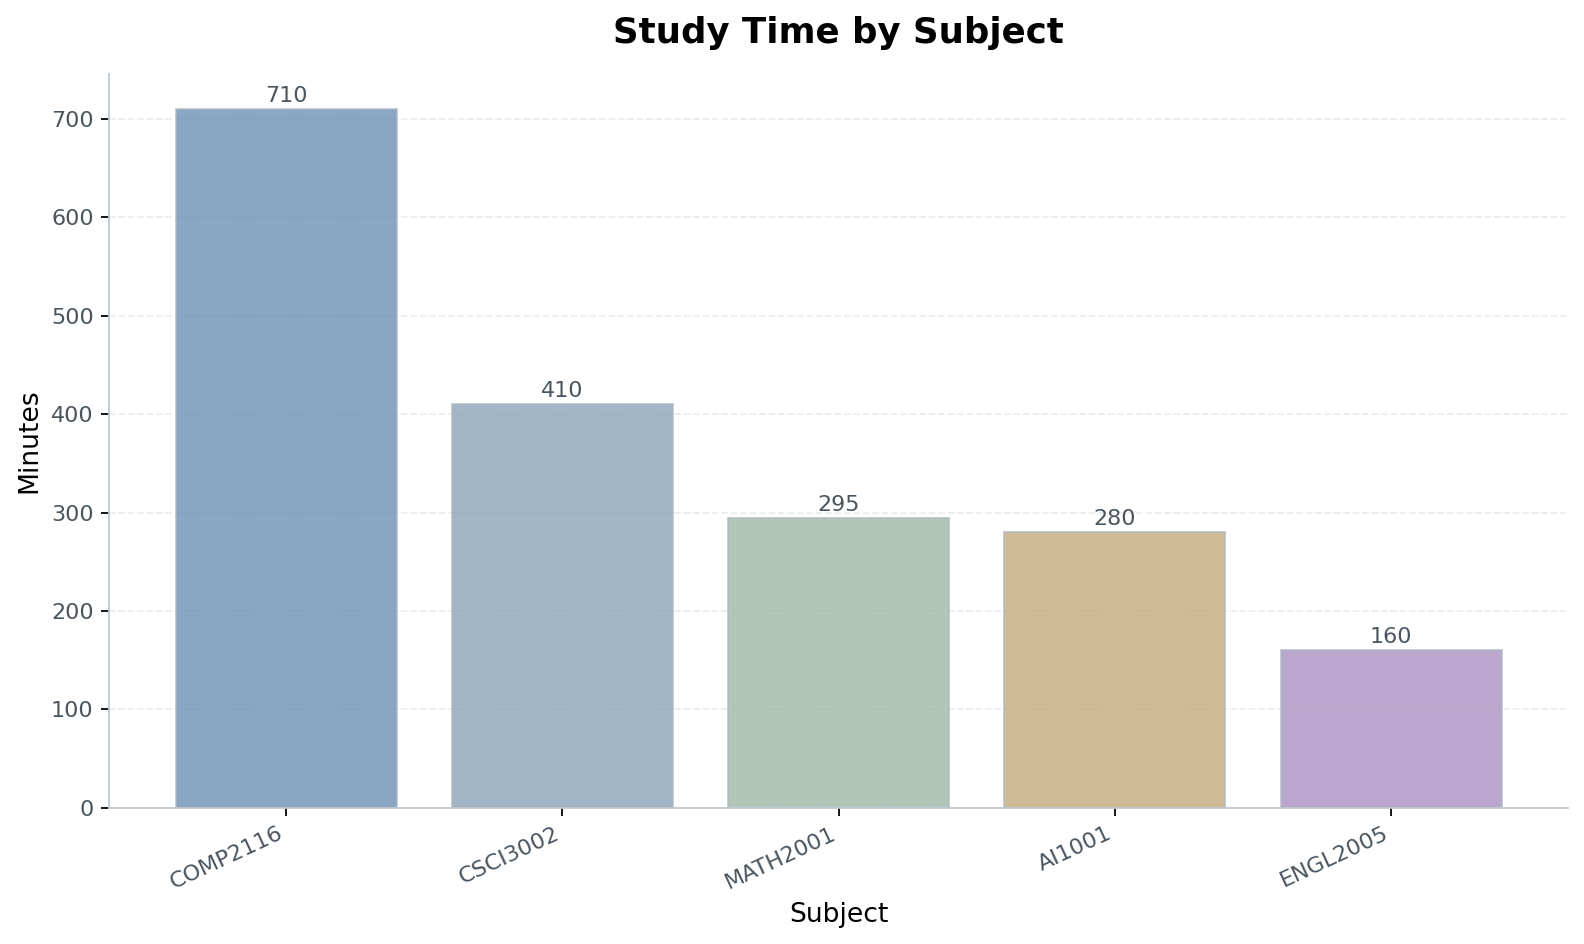
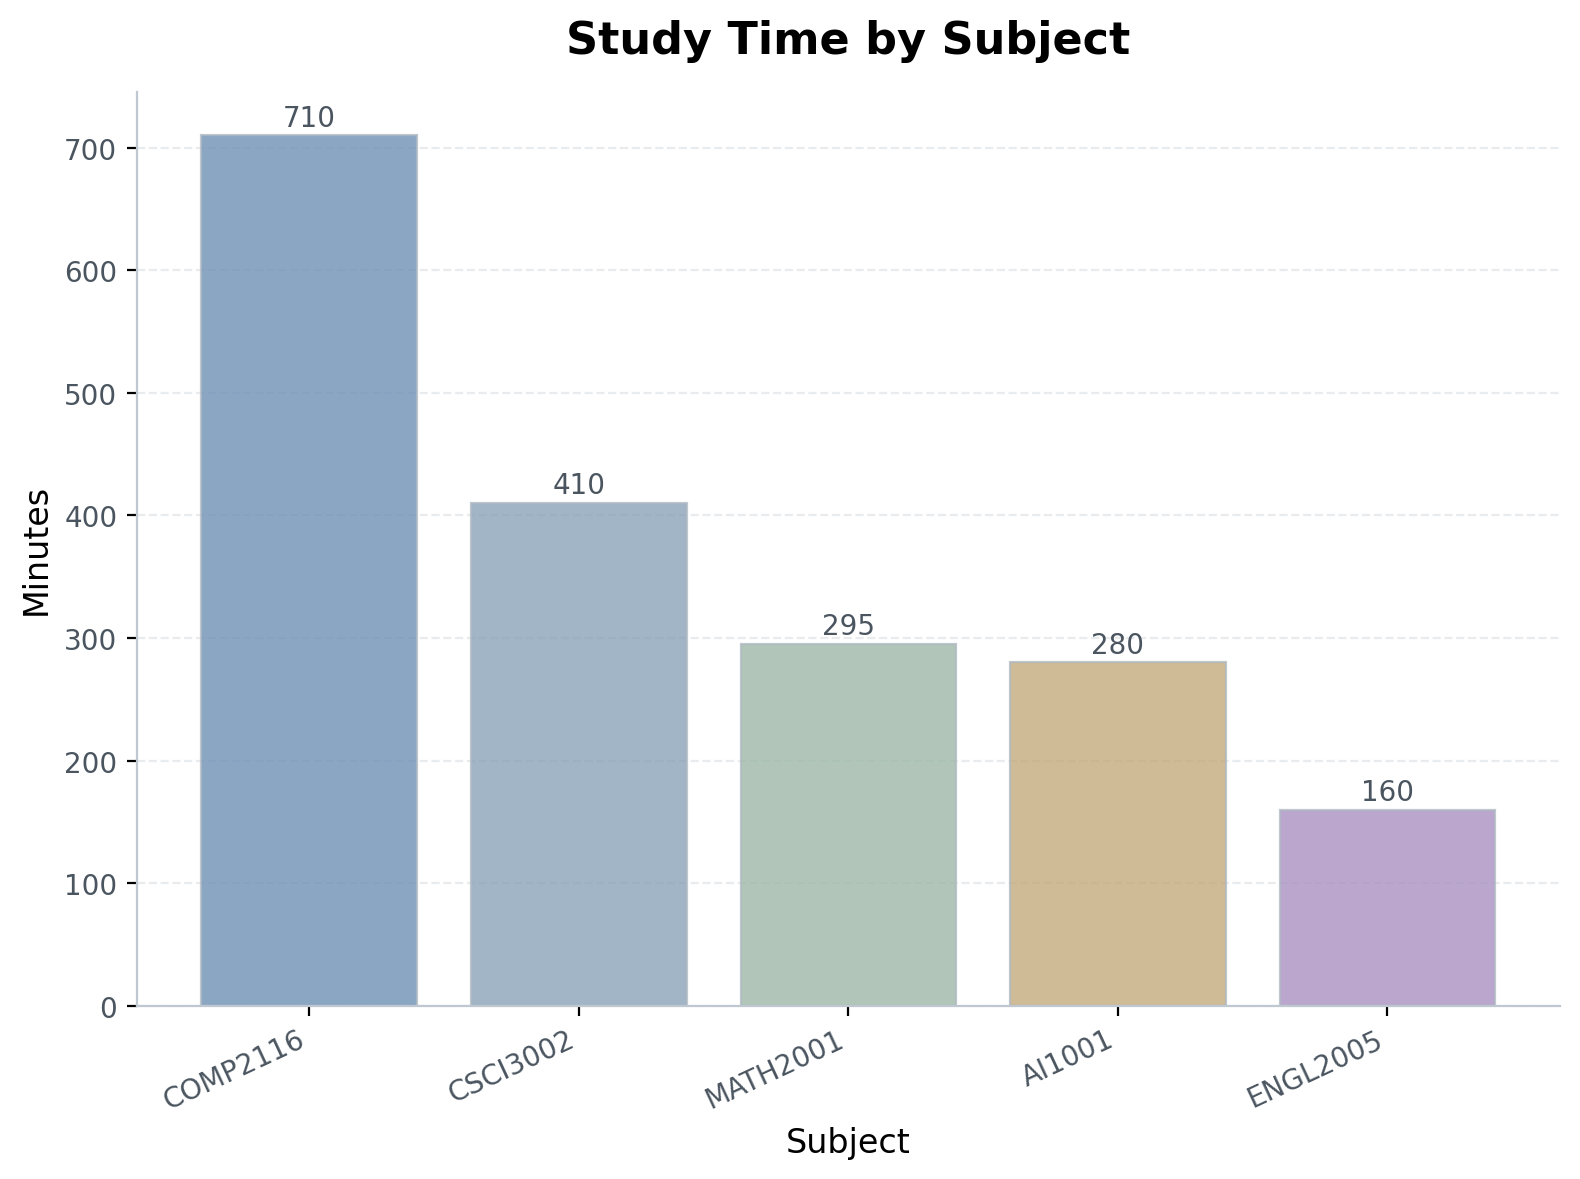
Show all image

diff --git a/study-time-tracker/main.py b/study-time-tracker/main.py
@@ -1,7 +1,7 @@
 import tkinter as tk
 from tkinter import ttk, messagebox
 import customtkinter as ctk
-
+from PIL import Image
 from db import init_db, add_log, get_all_logs, delete_log
 from charts import save_subject_bar_chart, save_subject_pie_chart
 from reports import export_logs_to_csv
@@ -55,12 +55,14 @@ class StudyTrackerApp(ctk.CTk):
         )
 
     def build_layout(self):
-        self.grid_columnconfigure(0, weight=1)
+        self.grid_columnconfigure(0, weight=5)
+        self.grid_columnconfigure(1, weight=2)
         self.grid_rowconfigure(2, weight=1)
 
         self.build_header()
         self.build_form_card()
         self.build_table_card()
+        self.build_chart_panel()
         self.build_action_bar()
 
     def build_header(self):
@@ -96,7 +98,7 @@ class StudyTrackerApp(ctk.CTk):
             border_width=1,
             border_color="#E5EAF0"
         )
-        form_card.grid(row=1, column=0, sticky="ew", padx=24, pady=10)
+        form_card.grid(row=1, column=0, sticky="ew", padx=(24, 12), pady=10)
         form_card.grid_columnconfigure((0, 1, 2, 3, 4, 5), weight=1)
 
         form_title = ctk.CTkLabel(
@@ -117,7 +119,7 @@ class StudyTrackerApp(ctk.CTk):
             form_card, "Minutes", 1, 4, 1, placeholder="e.g. 90"
         )
         self.note_entry = self._create_labeled_entry(
-            form_card, "Note", 3, 0, 4, placeholder="Write a short study note..."
+            form_card, "Note", 3, 0, 3, placeholder="Write a short study note..."
         )
 
         add_button = ctk.CTkButton(
@@ -131,7 +133,7 @@ class StudyTrackerApp(ctk.CTk):
             text_color="white",
             font=ctk.CTkFont(family="Segoe UI", size=16, weight="bold")
         )
-        add_button.grid(row=2, column=4, columnspan=2, sticky="ew", padx=12, pady=(10, 20))
+        add_button.grid(row=4, column=4, columnspan=2, sticky="ew", padx=12, pady=(10, 20))
 
     def _create_labeled_entry(self, parent, label_text, row, column, columnspan, placeholder=""):
         label = ctk.CTkLabel(
@@ -165,7 +167,7 @@ class StudyTrackerApp(ctk.CTk):
             border_width=1,
             border_color="#E5EAF0"
         )
-        table_card.grid(row=2, column=0, sticky="nsew", padx=24, pady=10)
+        table_card.grid(row=2, column=0, sticky="nsew", padx=(24, 12), pady=10)
         table_card.grid_columnconfigure(0, weight=1)
         table_card.grid_rowconfigure(1, weight=1)
 
@@ -218,7 +220,7 @@ class StudyTrackerApp(ctk.CTk):
             fg_color="transparent",
             corner_radius=0
         )
-        action_frame.grid(row=3, column=0, sticky="ew", padx=24, pady=(4, 22))
+        action_frame.grid(row=3, column=0, sticky="ew", padx=(24, 12), pady=(4, 22))
         action_frame.grid_columnconfigure((0, 1, 2), weight=1)
 
         delete_button = ctk.CTkButton(
@@ -266,6 +268,88 @@ class StudyTrackerApp(ctk.CTk):
         )
         export_button.grid(row=0, column=2, sticky="ew", padx=(8, 0))
 
+    def build_chart_panel(self):
+        self.chart_card = ctk.CTkFrame(
+            self,
+            fg_color="#FFFFFF",
+            corner_radius=22,
+            border_width=1,
+            border_color="#E5EAF0"
+        )
+        self.chart_card.grid(row=1, column=1, rowspan=3, sticky="nsew", padx=(12, 24), pady=(10, 22))
+        self.chart_card.grid_columnconfigure(0, weight=1)
+        self.chart_card.grid_rowconfigure(1, weight=1)
+
+        chart_title = ctk.CTkLabel(
+            self.chart_card,
+            text="Charts Preview",
+            font=ctk.CTkFont(family="Segoe UI", size=18, weight="bold"),
+            text_color="#1F2937"
+        )
+        chart_title.grid(row=0, column=0, sticky="w", padx=18, pady=(18, 8))
+
+        self.image_label = ctk.CTkLabel(
+            self.chart_card,
+            text="No chart generated yet",
+            font=ctk.CTkFont(family="Segoe UI", size=14),
+            text_color="#7A8794",
+            fg_color="#F8FAFC",
+            corner_radius=18,
+            width=560,
+            height=420
+        )
+        self.image_label.grid(row=1, column=0, sticky="nsew", padx=18, pady=10)
+
+        switch_frame = ctk.CTkFrame(self.chart_card, fg_color="transparent")
+        switch_frame.grid(row=2, column=0, sticky="ew", padx=18, pady=(0, 18))
+        switch_frame.grid_columnconfigure((0, 1), weight=1)
+
+        self.bar_button = ctk.CTkButton(
+            switch_frame,
+            text="Show Bar Chart",
+            command=lambda: self.show_chart("image/study_bar_chart.png"),
+            height=40,
+            corner_radius=16,
+            fg_color="#EAF2FF",
+            hover_color="#D8E7FF",
+            text_color="#2C5EA8"
+        )
+        self.bar_button.grid(row=0, column=0, sticky="ew", padx=(0, 6))
+
+        self.pie_button = ctk.CTkButton(
+            switch_frame,
+            text="Show Pie Chart",
+            command=lambda: self.show_chart("image/study_pie_chart.png"),
+            height=40,
+            corner_radius=16,
+            fg_color="#EEF8F2",
+            hover_color="#DDF2E5",
+            text_color="#2F6B4F"
+        )
+        self.pie_button.grid(row=0, column=1, sticky="ew", padx=(6, 0))
+
+    def show_chart(self, image_path):
+        try:
+            box_width = 560
+            box_height = 420
+
+            img = Image.open(image_path)
+            img.thumbnail((box_width, box_height))
+
+            self.chart_image = ctk.CTkImage(
+                light_image=img,
+                dark_image=img,
+                size=(img.width, img.height)
+            )
+            self.image_label.configure(text="", image=self.chart_image)
+
+        except Exception:
+            self.image_label.configure(text="Unable to load chart image.", image=None)
+
+    def animate_chart_sequence(self):
+        self.show_chart("image/study_bar_chart.png")
+        self.after(500, lambda: self.show_chart("image/study_pie_chart.png"))
+
     def handle_add(self):
         subject = self.subject_entry.get().strip()
         study_date = self.date_entry.get().strip()
@@ -301,13 +385,13 @@ class StudyTrackerApp(ctk.CTk):
         pie_chart = save_subject_pie_chart()
 
         if bar_chart and pie_chart:
+            self.animate_chart_sequence()
             messagebox.showinfo(
                 "Success",
                 f"Charts saved successfully:\n{bar_chart}\n{pie_chart}"
             )
         else:
             messagebox.showwarning("Warning", "No data available to generate charts.")
-
     def handle_export_csv(self):
         filename = export_logs_to_csv()
         messagebox.showinfo("Success", f"CSV exported to {filename}")

diff --git a/study-time-tracker/charts.py b/study-time-tracker/charts.py
@@ -29,7 +29,7 @@ def save_subject_bar_chart():
     colors = ACADEMIC_COLORS[:len(subjects)]
 
     plt.style.use("default")
-    fig, ax = plt.subplots(figsize=(10, 6), dpi=160)
+    fig, ax = plt.subplots(figsize=(8, 6), dpi=200)
     fig.patch.set_facecolor("white")
     ax.set_facecolor("white")
 
@@ -86,7 +86,7 @@ def save_subject_pie_chart():
     colors = ACADEMIC_COLORS[:len(subjects)]
 
     plt.style.use("default")
-    fig, ax = plt.subplots(figsize=(8, 8), dpi=160)
+    fig, ax = plt.subplots(figsize=(8, 6), dpi=200)
     fig.patch.set_facecolor("white")
     ax.set_facecolor("white")
 
